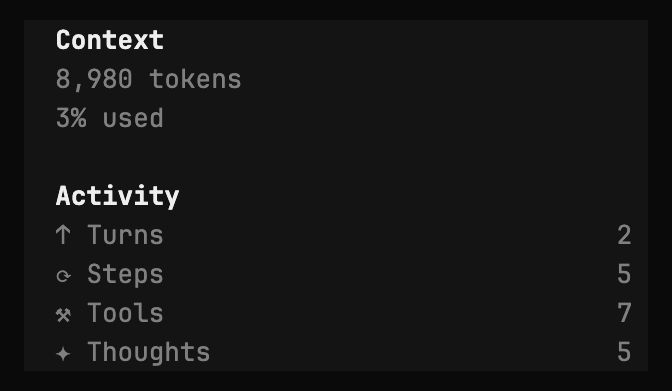
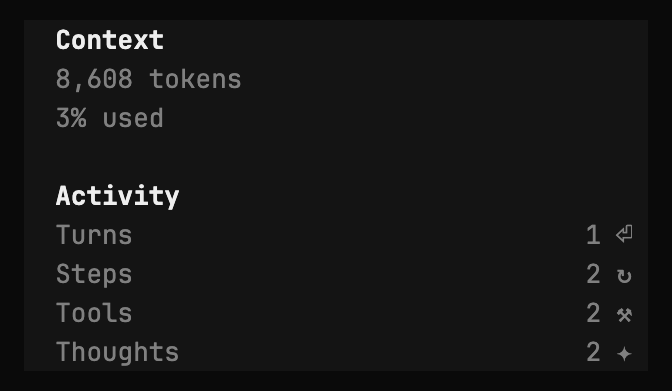
feat: new turn and step glyphs, placed after the counts (#7)

diff --git a/src/tui.tsx b/src/tui.tsx
@@ -35,8 +35,8 @@ const RESYNC = [
 ]
 
 const ROWS: [keyof Counts, string, string][] = [
-  ["turns", "↑", "Turns"],
-  ["steps", "⟳", "Steps"],
+  ["turns", "⏎", "Turns"],
+  ["steps", "↻", "Steps"],
   ["tools", "⚒", "Tools"],
   ["thoughts", "✦", "Thoughts"],
 ]
@@ -130,8 +130,8 @@ export default {
                   </text>
                   {ROWS.map(([key, sym, name]) => (
                     <box flexDirection="row" justifyContent="space-between">
-                      <text fg={ctx.theme.text.muted}>{`${sym} ${name}`}</text>
-                      <text fg={ctx.theme.text.muted}>{String(s()[key])}</text>
+                      <text fg={ctx.theme.text.muted}>{name}</text>
+                      <text fg={ctx.theme.text.muted}>{`${s()[key]} ${sym}`}</text>
                     </box>
                   ))}
                 </box>

diff --git a/README.md b/README.md
@@ -27,8 +27,8 @@ OpenCode's "Context" section:
 
 | Symbol | Count    | Meaning                                         |
 |--------|----------|-------------------------------------------------|
-| `↑`    | Turns    | Your messages                                   |
-| `⟳`    | Steps    | Model calls                                     |
+| `⏎`    | Turns    | Your messages                                   |
+| `↻`    | Steps    | Model calls                                     |
 | `⚒`    | Tools    | Tool calls made by the model                    |
 | `✦`    | Thoughts | Reasoning blocks                                |
 
